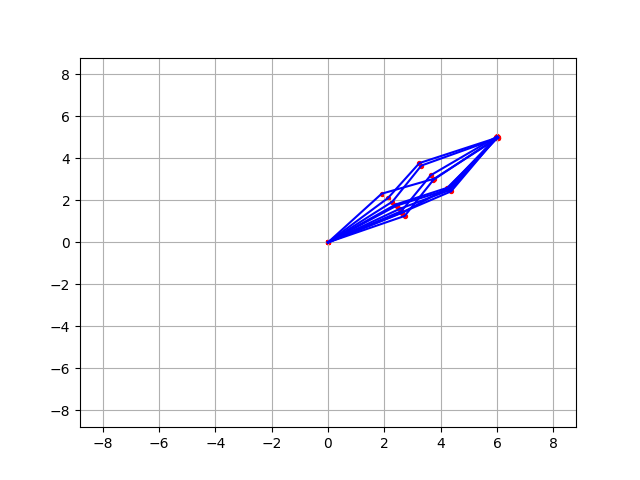
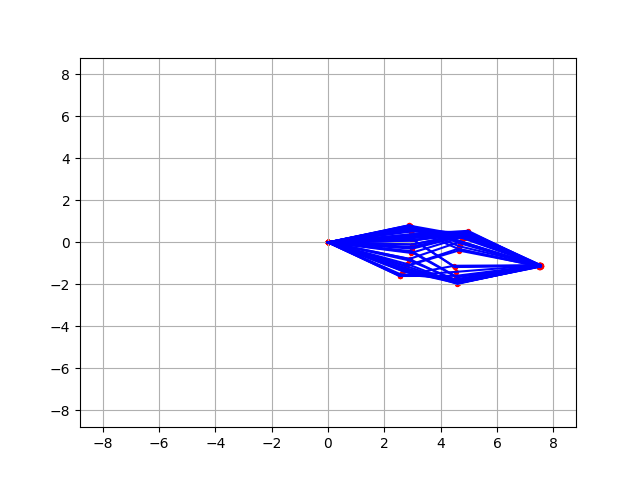
Evaluation procedure added

Changed region(s): [[0.5, 0.2812, 0.875, 0.5938]]

diff --git a/src/robotsim_test.py b/src/robotsim_test.py
@@ -12,6 +12,26 @@ import yaml
 
 from test_loader import *
 
+'''
+Evaluation of the respective model:
+_________________________________________________________________________________________
+
+x*: ground truth input joint angles of the robot
+y*: ground truth labels/ end-effector coordinated of the robot
+N: # of test labels drawn from the test dataset
+M: # of generated estimates for each test label to produce full posterior distribution
+
+_________________________________________________________________________________________
+
+1. Generate gt estimate p_gt(x|y*) obtained by rejection sampling
+2. Predict posterior distribution _p(x|y*) with model
+3. Calculate posterior mismatch between _p(x|y*) and p_gt(x|y*) with MMD
+4. Apply the forward process f to the generated samples _p(x|y*): y_resim = f(_p(x|y*))
+5. Measure the re-simulation error between y_resim and y*
+
+Metric 1: Compute the mismatch 
+'''
+
 if __name__ == '__main__':
 
     ####################################################################################################################
@@ -20,11 +40,10 @@ if __name__ == '__main__':
 
     model_name = 'INN'
     robot_dof = '3DOF'
-    dof=3
-
+    dof = 3
+    N = 1
+    M = 50
     percentile = 0.97
-    gt_tcp = [6.0, 5.0]
-    samples = 10
 
     ####################################################################################################################
     # CHECK FOR VALID INPUT
@@ -80,168 +99,93 @@ if __name__ == '__main__':
     # MODEL EVALUATION
     ####################################################################################################################
 
-    # 1.
-    # Compute gt estimate via rejection sampling
-    joint_states = rejection_sampling(robot=robot, tcp=gt_tcp, dof=dof, samples=samples)
-    robot.plot(joint_states, path='figures/rejection_sampling_' + str(config['dof']) + '.png', separate_plots=False)
-    gt_joint_states = torch.Tensor(joint_states)
+    # Average mismatch
+    mismatch_avg = []
+    mismatch_avg.append(0)
+    for n in range(N):
 
+        N_x = test_dataset.__getitem__(n)[0]
+        N_y = test_dataset.__getitem__(n)[1]
 
+        # 1.
+        # Generate gt estimate p_gt(x|y*) obtained by rejection sampling with M samples
 
-    # Compute predicted posterior distribution
+        joint_states = rejection_sampling(robot=robot, tcp=N_y, dof=dof, samples=M)
 
+        # generate plots for visualization for first sample
+        if n == 0:
+            # plot sample configuration from estimated posterior by rejection sampling
+            robot.plot(joint_states, path='figures/rejection_sampling_' + str(config['dof']) + '.png',
+                       separate_plots=False)
+            # Plot contour lines enclose the region containing 97% of the end points
+            resimulation_tcp = robot.forward(joint_states=joint_states)
+            resimulation_xy = resimulation_tcp[:, :2]
+            plot_contour_lines(points=resimulation_xy, gt=N_y,
+                               PATH='figures/q_quantile_rejection_sampling_' + config['name'] + '_' + config['dof'] + '.png',
+                               percentile=percentile)
 
+        gt_joint_states = torch.Tensor(joint_states)
 
-    gen_tcp = np.zeros(shape=(samples, 2))
-    gen_tcp[:, 0] = gt_tcp[0]
-    gen_tcp[:, 1] = gt_tcp[1]
-    gen_tcp = torch.Tensor(gen_tcp)
+        # 2.
+        # Predict posterior distribution _p(x | y *) with model
 
-    pred_joint_states = model.predict(tcp=gen_tcp, device=device)
+        # Create M x 2 array as y input for model
+        gen_tcp = np.zeros(shape=(M, 2))
+        gen_tcp[:, 0] = N_y[0]
+        gen_tcp[:, 1] = N_y[1]
+        gen_tcp = torch.Tensor(gen_tcp)
 
-    mmd_loss = MMD(gt_joint_states, pred_joint_states, device=device)
-    print('MMD loss: ', mmd_loss.item())
+        # predict posterior distribution based on M samples
+        pred_joint_states = model.predict(tcp=gen_tcp, device=device)
 
+        # generate plots for visualization for first sample
+        if n == 0:
+            # plot sample configuration from predicted posterior
+            robot.plot(pred_joint_states, path='figures/predicted_posterior_' + str(config['dof']) + '.png',
+                       separate_plots=False)
+            # Plot contour lines enclose the region containing 97% of the end points
+            resimulation_tcp = robot.forward(joint_states=pred_joint_states)
+            resimulation_xy = resimulation_tcp[:, :2]
+            plot_contour_lines(points=resimulation_xy, gt=N_y,
+                               PATH='figures/q_quantile_prediction_' + config['name'] + '_' + config[
+                                   'dof'] + '.png',
+                               percentile=percentile)
 
-    # # 2.
-    # # Compute RMSE
-    # test_rsme_avg = []
-    # test_rsme_avg.append(0)
-    # num_batches = 0
-    #
-    # for joint_batch, tcp_batch in test_dataloader:
-    #
-    #     joint_batch = joint_batch.to(device)
-    #     tcp_batch = tcp_batch.to(device)
-    #
-    #     # forward pass only accepts float
-    #     joint_batch = joint_batch.float()
-    #     tcp_batch = tcp_batch.float()
-    #
-    #     _x = model.predict(tcp_batch, device)
-    #     rmse = RMSE(_x, joint_batch)
-    #
-    #     test_rsme_avg[-1] += rmse.detach()
-    #     num_batches += 1
-    #
-    # test_rsme_avg[-1] /= num_batches
-    # print('Average RMSE between gt joints and generated joints: %f' % (test_rsme_avg[-1]))
+        # 3.
+        # Calculate posterior mismatch between _p(x|y*) and p_gt(x|y*) with MMD
 
-    ####################################################################################################################
-    # VISUALISATION
-    ####################################################################################################################
+        error = MMD(gt_joint_states, pred_joint_states, device=device)
+        mismatch_avg[-1] += error.item()
 
-    # input = None
-    # if config['dof'] == '2DOF':
-    #     input = torch.Tensor([[-np.pi / 6, np.pi / 6]])
-    # else:
-    #     input = torch.Tensor([[-np.pi / 8, np.pi / 8, -np.pi / 8]])
-    #
-    # # compute resulting tcp coordinates
-    # tcp = robot.forward(joint_states=input.detach())
-    # tcp = torch.Tensor([[tcp[0], tcp[1]]])
-    # # print('tcp coordinates: ', tcp)
-    #
-    # # Plot ground truth configuration
-    # robot.plot(joint_states=input.detach(), path='figures/gt_configurations_' + str(config['dof']) + '.png',
-    #            separate_plots=False)
+    # Average error over N different observations y*
+    mismatch_avg[-1] /= N
+    print('Average error of posterior: %.3f' % mismatch_avg[-1])
 
+    # 4. and 5.
+    # Apply the forward process f to the generated samples _p(x|y*): y_resim = f(_p(x|y*)) and
+    # measure the re-simulation error between y_resim and y*
 
-    tcp = torch.Tensor([[5.0, -6.0]])
+    # Now consider the whole test dataset
+    num_batches = 0
+    error_resim_avg = []
+    error_resim_avg.append(0)
+    for joint_batch, tcp_batch in test_dataloader:
 
+        joint_batch = joint_batch.to(device)
+        tcp_batch = tcp_batch.to(device)
 
+        # only accepts float
+        joint_batch = joint_batch.float()
+        tcp_batch = tcp_batch.float()
 
+        _x = model.predict(tcp_batch, device)
+        # perform forward kinemtatics on _x
+        y_resim = torch.Tensor(robot.forward(joint_states=_x.detach()))
+        # Exclude orientation
+        y_resim = y_resim[:, :2]
+        error_resim = MSE(y_resim, tcp_batch, reduction='mean')
+        error_resim_avg[-1] += error_resim
+        num_batches += 1
 
-    # Generate joints angles from predefined tcp coordinates
-    _x, _y, preds_joints = [], [], []
-
-    for i in range(config['num_samples_config']):
-        preds = model.predict(tcp, device)
-        preds_joints.append(preds.detach().tolist()[0])
-
-    # Plot generated configurations
-    preds_joints = np.array(preds_joints)
-    robot.plot(joint_states=preds_joints, path='figures/generated_configurations_' + model_name + '_' +
-                                               str(config['dof']) + '.png', separate_plots=False)
-
-    # Plot contour lines enclose the region conaining 97% of the end points
-    resimulation_tcp = robot.forward(joint_states=preds_joints)
-    resimulation_xy = resimulation_tcp[:, :2]
-
-    tcp_squeezed = torch.squeeze(tcp)
-
-    plot_contour_lines(config, resimulation_xy, gt=tcp_squeezed.numpy(), percentile=percentile)
-
-    ####################################################################################################################
-
-    # if model_name == 'CVAE':
-    #     for i in range(config['num_samples_config']):
-    #         pred_joint_angles = model.predict(tcp, device)
-    #         # print('pred_joint_angles: ', pred_joint_angles)
-    #         preds = postprocess(pred_joint_angles)
-    #         preds_joints.append(preds.numpy().tolist()[0])
-    # else:
-    #     invalid_preds = 0
-    #     for i in range(config['num_samples_config']):
-    #         pred_joint_angles = model.predict(tcp, device)
-    #         if torch.any(pred_joint_angles < -1.0) or torch.any(pred_joint_angles > 1.0):
-    #             invalid_preds = invalid_preds + 1
-    #             continue
-    #         # print('pred_joint_angles: ', pred_joint_angles)
-    #         preds = postprocess(pred_joint_angles)
-    #         preds_joints.append(preds.numpy().tolist()[0])
-    #
-    #     print('INVALID PREDICTIONS / TOTAL PREDICTIONS: %i / %i' % (invalid_preds, config['num_samples_config']))
-
-    # if model_name == 'CVAE':
-    #     # visualise latent space
-    #     input = []
-    #     tcp = []
-    #     for i in range(config['num_samples_latent']):
-    #         input.append(test_dataset.__getitem__(i)[0])
-    #         tcp.append(test_dataset.__getitem__(i)[1])
-    #
-    #     input = torch.Tensor(input)
-    #     tcp = torch.Tensor(tcp)
-    #
-    #     # forward pass only accepts float
-    #     input = input.float()
-    #     tcp = tcp.float()
-    #
-    #     # apply sine and cosine to joint angles
-    #     # input = preprocess(input)
-    #
-    #     # forward propagation
-    #     with torch.no_grad():
-    #         z = model.visualise_z(input, tcp)
-    #
-    #     print('size of z: ', z)
-    #
-    #     # fig = plt.figure()
-    #     # plt.title('Latent space')
-    #     # plt.xlabel('Z1')
-    #     # plt.ylabel('Z2')
-    #     # plt.scatter(z[:, 0], z[:, 1], c='g')
-    #     # plt.savefig('figures/Latent_space_' + str(config['dof']) + '.png')
-    #
-    #     fig = plt.figure()
-    #     plt.title('Latent space')
-    #     plt.xlabel('Z')
-    #     # plt.plot(z[:, 0], c='g')
-    #     plt.plot(z[:, 0], np.zeros_like(z[:, 0]) + 0., 'x')
-    #     plt.savefig('figures/Latent_space_CVAE_' + str(config['dof']) + '.png')
-    #
-    # else:
-    #     # visualise latent space
-    #     input = []
-    #     for i in range(config['num_samples_latent']):
-    #         input.append(test_dataset.__getitem__(i)[0])
-    #
-    #     input = torch.Tensor(input)
-    #
-    #     # forward pass only accepts float
-    #     input = input.float()
-    #
-    #     # apply sine and cosine to joint angles
-    #     # input = preprocess(input)
-    #     model.visualise_z(config, input)
+    error_resim_avg[-1] /= num_batches
+    print('Average re-simulation error: %.3f' % error_resim_avg[-1])

diff --git a/src/utils.py b/src/utils.py
@@ -61,7 +61,7 @@ def normalize(x):
 
     return x
 
-def plot_contour_lines(config, points, gt, percentile=0.97):
+def plot_contour_lines(points, gt, PATH, percentile=0.97):
 
     # q_quantile = np.quantile(points, q=percentile, axis=0)
     distance = np.linalg.norm(points - gt, axis=1)
@@ -69,28 +69,26 @@ def plot_contour_lines(config, points, gt, percentile=0.97):
     # sorts distance array such that the first k elements are the smallest
     samples = points.shape[0]
     k = int(percentile * samples)
-    # print('k: ', k)
     idx = np.argpartition(distance, k)
     idx_k = idx[:k]
 
     # selects
     selected_points = torch.index_select(input=torch.Tensor(points), dim=0, index=torch.LongTensor(idx_k)).detach()
-    # print('SHAPE OF selected points: ', selected_points.shape)
     selected_points = np.insert(selected_points, [1], gt, axis=0)
-    # print('SHAPE OF points: ', points.shape)
 
     hull = ConvexHull(selected_points)
     area = np.around(hull.area, decimals=2)
 
     fig = plt.figure()
     plt.title('Area of convex hull: ' + str(area))
-    plt.axis([6.0, 9.5, -4.0, 4.0])
+    # define axis limits dynamically
+    plt.axis([gt[0]-3.0, gt[0]+3.0, gt[1]-3.0, gt[1]+3.0])
     plt.scatter(points[:, 0], points[:, 1], c='g')
     plt.scatter(gt[0], gt[1], c='r')
-    # plt.scatter(selected_points[:, 0], selected_points[:, 1], c='b')
+
     for simplex in hull.simplices:
         plt.plot(selected_points[simplex, 0], selected_points[simplex, 1], 'k-')
-    plt.savefig('figures/q_quantile_of_points_' + config['name'] + '_' + config['dof'] + '.png')
+    plt.savefig(PATH)
 
 def RMSE(pred, gt):
     return torch.sqrt(torch.mean(torch.sum(torch.square(pred - gt), dim=1)))
